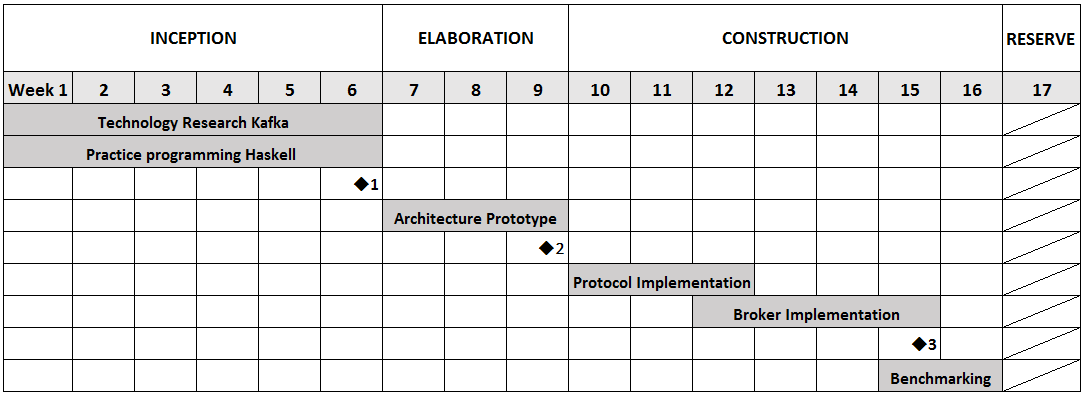
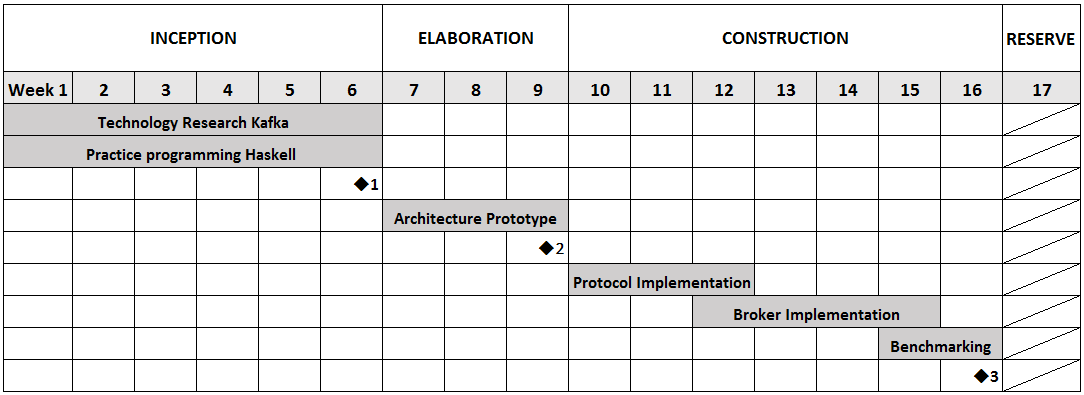
add milestones

diff --git a/projektplan.tex b/projektplan.tex
@@ -33,23 +33,8 @@ Dr. Simon Meier & simon.y.meier@gmail.com & Expert  \\ \hline\end{tabular}
 %\begin{itemize}
 %\item 
 %\end{itemize}
-
+\newpage
 \section{Planning}
-
-\subsection{Time tracking}
-Performed work is tracked via Atlassian JIRA platform where we manage issues for
-the project. 
-%Die Zeiterfassung wird von den Projektmitarbeitern in Redmine erfasst.
-%Redmine ist über folgenden Link erreichbar:
-%\url{http://152.96.56.42/redmine/}. Die Projektmitarbeiter haben einen
-%persönlichen Zugang  um die Daten zu erfassen. Der Betreuer hat
-%ebenfalls ein Zugang, mit welchem er die Fortschritte mitverfolgen kann.
-%Auf Redmine ist der aktuelle Stand des Projekts zu sehen.
-
-\subsection{Time schedule and objectives}
-
-We separated the work in four phases (adapted from Rational Unified Process,
-RUP) as follows:  
 
 \begin{figure}[H]
     \centering
@@ -58,32 +43,82 @@ RUP) as follows:
     \label{fig:MBig:the-log}
 \end{figure}
 
-\begin{tabular}[H]{|l|l|p{8cm}|}\hline
-    \textbf{Phase} & \textbf{Task} & \textbf{Objectives} \\ \hline \hline
-    Inception & Technology Research Kafka & 
-        \begin {itemize}
+\subsection{Milestones}
+Important points in the project are specified in table
+\ref{tab:MeilensteineZiele}. After reaching the planed end of a milestone, a
+set-actual comparison is made. 
+
+\begin{tabular}[H]{|p{4cm}|l|p{4.5cm}|p{4.5cm}|}\hline
+    \textbf{Milestone} & \textbf{Deadline} & \textbf{Objectives} & \textbf{Deliverables} \\ \hline
+    M0 Start of work & 16.02.2015 & - & -\\ \hline
+    M1 Completion of research  & 22.03.2015 & 
+        Necessary background knowledge about Kafka related topics as well as
+        Haskell skills are ready for implementation part. 
+        &
+        Documentation technology research \\ \hline
+    M2 End of elaboration & 19.04.2015 & 
+        After a period of three weeks we want to have a concept and first running
+        code to show some basic functionality and feasibility. 
+        &
+        Architecture prototype \\ \hline
+    M3 End of construction & 07.06.2015 & 
+        Code freeze, all planned features are implemented. Broker runs stable and
+        benchmark results exist. 
+        &
+        Stable broker and protocol implementation. Benchmarks results. \\ \hline
+  %\begin{itemize}
+  %  \item \ldot
+  %\end{itemize} \\ \hline
+\end{tabular}
+\captionof{table}{Milestones and their objectives}
+\label{tab:MeilensteineZiele}
+
+\newpage
+\subsection{Tasks}
+We separated the work in three phases inception, elaboration and construction
+(adapted from Rational Unified Process, RUP). For each phase we defined the
+following tasks and their subtasks to plan our work:
+
+\subsubsection{Inception}
+
+
+\begin{tabular}[H]{|p{6cm}|p{10cm}|}\hline
+    \textbf{Task} & \textbf{Subtasks} \\ \hline
+    Technology Research Kafka & 
+        \begin{itemize}
             \item Learn Messaging and Event Streaming fundamentals.
             \item Analyse Apache Kafka and related topics. 
             \item Write research documentation.
         \end{itemize} \\ \hline
-    Inception & Practice programming Haskell & 
-        \begin {itemize}
+    Practice programming Haskell & 
+        \begin{itemize}
             \item Familiarize with the functional paradigm.
             \item Setup developer environment and repositories. 
             \item Learn Haskell as functional programming language.
             \item Become acquainted to libraries regarding networking,
               building server application, and serialization.
         \end{itemize} \\ \hline
-    Elaboration & Architecture Prototype &
-        \begin {itemize}
+\end{tabular}
+
+\subsubsection{Elaboration}
+\begin{tabular}[H]{|p{6cm}|p{10cm}|}\hline
+   \textbf{Task} & \textbf{Subtasks} \\ \hline
+    Architecture Prototype &
+        \begin{itemize}
             \item Set up basic server architecture.
             \item Set up concept for implementing the wire protocol.
             \item Implement basic message workflow from producing messages and
             persisting at broker to consuming the data from another clients.
-            \item Implement simplified clients to demonstrate architecture.
+            \item Implement simplified clients to demonstrate architecture
+                prototype prototype.
         \end{itemize} \\ \hline
-    Construction & Protocol Implementation &
-        \begin {itemize}
+   \end{tabular}
+
+\subsubsection{Construction}
+\begin{tabular}[H]{|p{6cm}|p{10cm}|}\hline
+   \textbf{Task} & \textbf{Subtasks} \\ \hline
+    Protocol Implementation &
+        \begin{itemize}
             \item Build standalone package providing an independent Kafka
                 protocol library.
             \item Work out details of protocol implementation. Finish
@@ -93,7 +128,7 @@ RUP) as follows:
                 implementation.
             \item Test Kafka compatibility.
         \end{itemize} \\ \hline
-    Construction & Broker Implementation &
+    Broker Implementation &
         \begin{itemize}
             \item Work out server application handling multiple connections
             sending produce or consume requests.
@@ -101,29 +136,15 @@ RUP) as follows:
             \item Optimize performance to approximate performance approach of
             Apache Kafka. 
         \end{itemize} \\ \hline
-    Construction & Benchmarking &
+    Benchmarking &
         \begin{itemize}
             \item Test resulting broker implementation for performance.
             \item Comparing performance with Apache Kafka.
         \end{itemize} \\ \hline
-    Transition & Reserved & Reserved time for completion work and documentation.
-    \\ \hline
 \end{tabular}
 
-Important points in the project are specified in table
-\ref{tab:MeilensteineZiele}. After reaching the planed end of a milestone, a
-set-actual comparison is made. 
+Last week of the schedule is reserved for completion work and documentation. 
 
-\begin{tabular}[t]{|l|l|p{8cm}|}\hline
-    \textbf{Milestone} & \textbf{Deadline} & \textbf{Deliverables} \\ \hline \hline
-   % M0 & Start of work & 16.02.2015 & - \\ \hline
-   % M1 Inception  & 22.03.2015 & 
-  %\begin{itemize}
-  %  \item \ldots
-  %\end{itemize} \\ \hline
-\end{tabular}
-\captionof{table}{Meilensteine und deren Ziele}
-\label{tab:MeilensteineZiele}
 
 
 \newpage
@@ -161,9 +182,19 @@ Kommunikations"-probleme &
 Sollte trotz den vorbeugenden Massnahmen ein zeitlicher Schaden
 entstehen, muss die Projektplanung unter Umständen angepasst werden.
 
+\subsection{Time tracking}
+Performed work is tracked via Atlassian JIRA platform where we manage issues for
+the project. 
+%Die Zeiterfassung wird von den Projektmitarbeitern in Redmine erfasst.
+%Redmine ist über folgenden Link erreichbar:
+%\url{http://152.96.56.42/redmine/}. Die Projektmitarbeiter haben einen
+%persönlichen Zugang  um die Daten zu erfassen. Der Betreuer hat
+%ebenfalls ein Zugang, mit welchem er die Fortschritte mitverfolgen kann.
+%Auf Redmine ist der aktuelle Stand des Projekts zu sehen.
+
+
 \section{Qualitätsmanagement}
 
-%Achtungb Plagiat: 
 %Um die Arbeitsergebnisse qualitativ auf einem hohen Niveau zu halten,
 %arbeiten die Projektmitglieder nach dem Vier-Augen-Prinzip. Ein Dokument
 %wird immer von beiden durchgelesen. Allfällige Änderungen werden gleich
